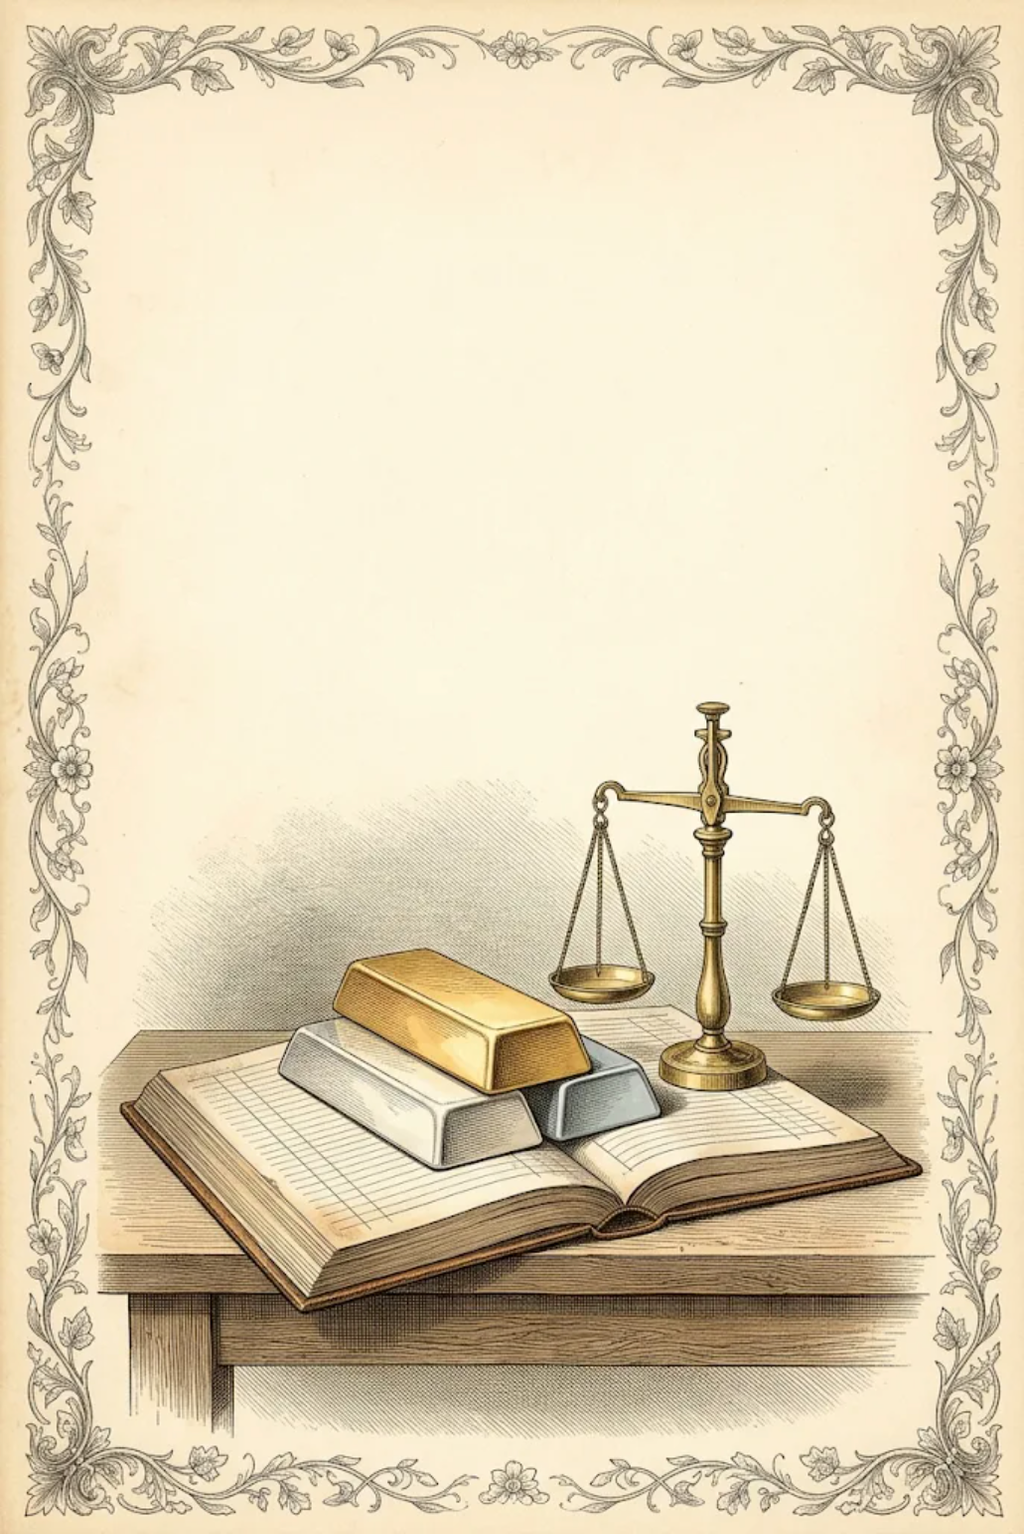
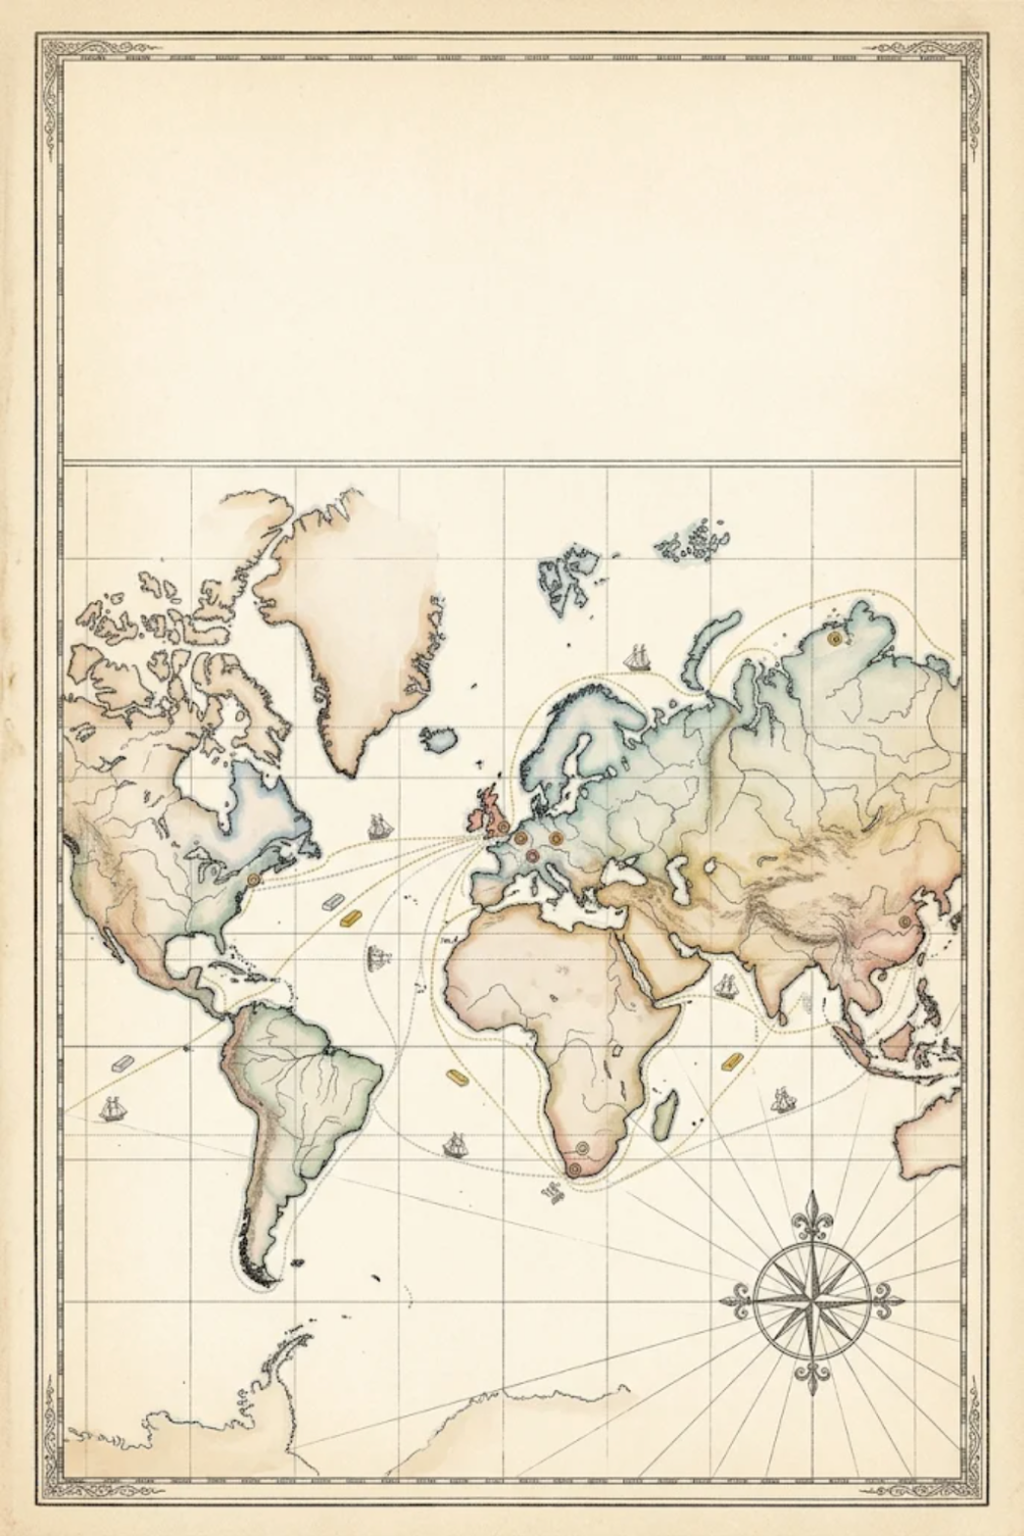
precious-metals: antique-map cover with a gilt title; engine: 'open' cover style
Claude-Session: https://claude.ai/code/session_018EVSP1SFwXSWxbkvG4kp9h

diff --git a/popup-book/engine/50-main.js b/popup-book/engine/50-main.js
@@ -183,6 +183,19 @@ function coverCanvas(img, front) {
       g.font = `${(H * 0.058).toFixed(0)}px ${fontStack()}`; g.fillText(BOOK.title, W / 2, by + bh * (cv.subtitle ? 0.4 : 0.5), bw * 0.9);
       if (cv.subtitle) { g.font = `${(H * 0.026).toFixed(0)}px ${fontStack()}`; g.fillStyle = '#4a3a2a'; g.fillText(cv.subtitle, W / 2, by + bh * 0.74, bw * 0.9); }
       if (cv.seal) seal(g, bx + bw - H * 0.05, by + bh + H * 0.02, H * 0.034, cv.seal);
+    } else if (style === 'open') {
+      // title printed straight onto the art (for art with an empty band at the top): gilt title,
+      // a rule in the colours of cv.rule, italic subtitle. cv.y: title centre as a fraction of the height
+      const ty = H * (cv.y || 0.12), ts = H * (cv.size || 0.056);
+      g.textAlign = 'center'; g.textBaseline = 'middle';
+      g.font = `600 ${ts.toFixed(0)}px ${fontStack()}`;
+      const gr = g.createLinearGradient(0, ty - ts * 0.55, 0, ty + ts * 0.45);
+      gr.addColorStop(0, '#d9b45a'); gr.addColorStop(0.45, '#a87a26'); gr.addColorStop(0.55, '#8c621c'); gr.addColorStop(1, '#c39a43');
+      g.lineJoin = 'round'; g.lineWidth = ts * 0.018; g.strokeStyle = 'rgba(70,46,14,0.55)'; g.strokeText(BOOK.title, W / 2, ty, W * 0.86);
+      g.fillStyle = gr; g.fillText(BOOK.title, W / 2, ty, W * 0.86);
+      const cols = cv.rule || [], ry = ty + ts * 0.78, rw = W * 0.3, seg = rw / Math.max(1, cols.length);
+      cols.forEach((col, i) => { g.fillStyle = col; g.fillRect(W / 2 - rw / 2 + i * seg, ry, seg - H * 0.003, H * 0.0035); });
+      if (cv.subtitle) { g.font = `italic ${(H * 0.026).toFixed(0)}px ${fontStack()}`; g.fillStyle = '#4a3a2a'; g.fillText(cv.subtitle, W / 2, ry + H * 0.038, W * 0.8); }
     }
   } else {
     // back board: the cover art without the title
